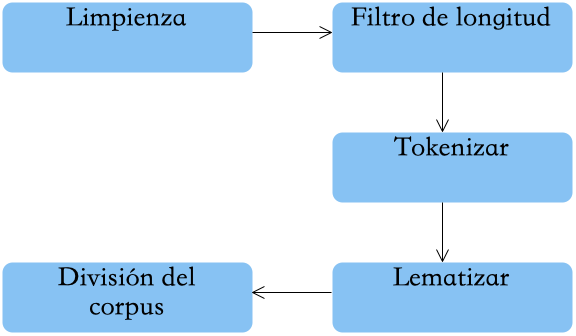
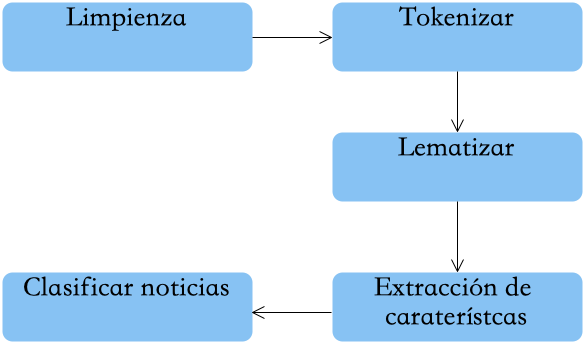
Se ha modificado la estructura de la sección Aplicación web, del capítulo 5

diff --git a/Analisis/DocumentoAnalisis/Capitulos/Capitulo5-ImplementacionPruebas/3.Proceso-ApplicacionWeb.tex b/Analisis/DocumentoAnalisis/Capitulos/Capitulo5-ImplementacionPruebas/3.Proceso-ApplicacionWeb.tex
@@ -1,16 +1,18 @@
-\section{Aplicación web}
-
+\section[Aplicación]{Aplicación web}
 
 
 Como se establecio en el obejetivo de este trabajo (ver \Tref{cp1:objetivoG}{Objetivo general}), se ha desarrollado una aplicación para recolectar y clasificar noticias, las cuales son mostrados en un entorno web. En esta sección se explica el proceso de funcionamiento de la aplicación web.\\
 
 
 
-La aplicación desarrollada consta de 4 etapas, las culaes son mostradas en la Figura \ref{fig:procesoAppWeb}, donde la etapa \textbf{selección} describe las secciones disponibles para obtener noticias, la etapaam
+La aplicación esta dieseñada en 4 etapas, las cuales son mostradas en la Figura \ref{fig:procesoAppWeb}, donde la etapa \textbf{Selección} describe las secciones disponibles para obtener noticias; la etapa \textbf{Recolectar} muestra la integración de los \textit{crawlwers} en la herramienta; la etapa \textbf{Clasificar} hace uzo del modelo clasificador desarrollado en la sección anterior y para concluir, la etapa \textbf{Mostrar resultados} describe la forma en que los datos son presentados al usuario. A continuación se explica a detalla cada una las tareas.
+
+
+
 
 \begin{figure}[H]
 	\centering
-	\includegraphics[scale=0.5]{imagenes/Capitulo5/AplicacionWeb/ProcesoAplicacionWeb.png}
+	\includegraphics[scale=0.55]{imagenes/Capitulo5/AplicacionWeb/ProcesoAplicacionWeb.png}
 	\caption{Etapas de la aplicación web}
 	\label{fig:procesoAppWeb}
 \end{figure}
@@ -27,43 +29,12 @@ La aplicación desarrollada consta de 4 etapas, las culaes son mostradas en la F
 %\end{figure}
 %
 
-\subsubsection{Selección de sección}
-El usuario tendrá que elegir una sección (\textbf{Cultura}, \textbf{Deportes}, \textbf{Economía}, \textbf{Ciencia y Tecnología} y \textbf{Política}). 
-\\
-
-\subsubsection{Recolección de noticias}
-Una vez seleccionada la sección, se procede con la recolección de noticias de los sitios web previamente definidos (ver \Tref{cp5:sitiosWeb}{sitios web}), la información que se descargará de cada noticia será la siguiente:
-
-\begin{itemize}
-	\item \textbf{URL de la noticia}
-	\item \textbf{Título}
-	\item \textbf{Fecha}
-	\item \textbf{Autor}
-	\item \textbf{Descripción} (Existen sitios web, donde las noticias cuentan con una descripción)
-	\item \textbf{Noticia}
-\end{itemize}
-
-No será necesario extraer el nombre de la sección a la cual pertenece la noticia.\\
-
-\subsubsection{Tokenización / lematización}
-Una vez que se recolecta el contenido de las noticias, se pasa por la etapa de tokenización (ver \Tref{cp5:tokenizacion}{tokenización}), la cual consiste en separar el texto en sus elementos mínimos, posteriormente se lematiza (ver \Tref{cp5:lematizacion}{lematización}) el texto, proceso que reduce cada una de las palabras tokenizadas en lemas.
+\subsection{Selección}
 
 
-\subsubsection{Extracción de características}
-Finalizado el proceso de tokenización y lematización, se procede con la etapa de extracción de características, donde se crea un espacio vectorial por cada noticia, en donde cada elemento del vector representa la existencia o asencia de una característica (palabra).
+Esta etapa permite elegir al usuario el tipo de noticias a buscar. La aplicación comienza en una pantalla inicial, donde se muestra un menú con las opciones \textbf{Inicio}, \textbf{Cultura}, \textbf{Deportes}, \textbf{Economía}, \textbf{Política}, \textbf{Ciencia y Tecnología}, estas categorías (excluyendo \textbf{Inicio}) son las secciones permitidas para recolectar noticias, como se muestra la el Figura \ref{fig:PantallaInicio}. Cabe mencionar que la opción \textbf{Inicio}, permite regresar a la pantalla principal.\\
 
-\subsubsection{Clasificación de noticias}
-Una vez que se han obtenido las características de cada una de las noticias, se realizá la clasificación de las noticias, estas noticias se guardarán en un archivo, cabe destacar que cada sección contendrá su propio archivo, con el fin de mejorar el tiempo de visualización de los resultados.
 
-\subsubsection{Visualización de resultados}
-El usuario podrá visualizar las noticias extraídas y clasificadas de la sección que seleccione.
-Una vez que se haya realizado la recolección de noticias
-
-\subsection{Vistas de la aplicación web}
-
-El sistema cuenta con 5 secciones \textbf{Deportes}, \textbf{Economía}, \textbf{Política}, \textbf{Ciencia y tecnología} y \textbf{Cultura}, el usuario podrá elegir de alguna de estas secciones, se debe considerar que los sitios web de los cuales serán recolectadas las noticias, han sido definidos en el capítulo 5.1.\\
-La Figura \ref{fig:PantallaInicio} muestra la vista que tendrá el usuario al ingresar a la aplicación web
-\\
 \begin{figure}[H]
 \centering
 \includegraphics[scale=0.29]{imagenes/Capitulo5/pantallaPrincipal.png}
@@ -71,8 +42,16 @@ La Figura \ref{fig:PantallaInicio} muestra la vista que tendrá el usuario al in
 \label{fig:PantallaInicio}
 \end{figure}
 
-El usuario tiene la posibilidad de elegir la sección de la cual desee visualizar noticias. Una vez que el usuario seleccione una sección, la vista que tendrá se muestra en la Figura \ref{fig:loading}.
-\\
+Después de elegir una sección, se muestra el mensaje \textbf{En proceso de recolección y clasificación}, como se visualiza en la Figura \ref{fig:loading}, el cual informa que las etapas \textbf{Recolectar} y \textbf{Clasificar} están en proceso, además cuando se muestra este mensaje no se puede seleccionar otra secciones hasta que el proceso concluya. Cabe destacar que el proceso continua de forma normal si se cumplen las siguientes condiciones:
+
+\begin{enumerate}
+	\item \textbf{Primera vez}: Esta condición hace referencia a la etapa \textbf{selección}, es decir cuando es la primera vez que se ha selecciona una sección, se debe proceder con las siguientes etapas
+
+	\item \textbf{Límite de periodo}: Esta condición define 4 horas como el periodo de recolección, es decir cuando se ha solicitado mostrar las noticias de una sección y ha transcurrido 4 horas des de la última petición, se debe proceder con las siguientes etapas
+\end{enumerate}	
+
+Como consecuencia de no cumplirse estas condiciones, las etapas \textbf{Recolectar y Clasificar} no son iniciadas, debido a que los artículos con su clasificación correspondiente se encuentran almacenados en el sistema, por esta razón se procede directamente con la etapa \textbf{Mostrar resultado}.\\
+
 \begin{figure}[H]
 \centering
 \includegraphics[scale=0.29]{imagenes/Capitulo5/mensajeEspera.png}
@@ -80,33 +59,73 @@ El usuario tiene la posibilidad de elegir la sección de la cual desee visualiza
 \label{fig:loading}
 \end{figure}
 
-Mientras se muestra esta vista, de manera interna se realizan los siguientes procesos:
+
+\subsection{Recolectar}
+
+
+Esta etapa genera un subproceso el cual activa un script (desarrollado en \textbf{Python 3}) el cual activa la recolección de noticias en los sitio web definidos previamente (ver \Tref{cp5:sitiosWeb}{Sitios web}), la información que se obtiene de cada artículo es la siguiente:
 
 \begin{itemize}
-	\item Se realiza la recolección de noticias.  
-	\item Una vez finalizada la recolección de noticias, se unen en un archivo
-	\item Se tokenizan y lematizan las noticias recolectadas
-	\item Finalmente el algoritmo clasifica las noticias recolectadas
+	\item \textbf{URL de la noticia}
+	\item \textbf{Título}
+	\item \textbf{Fecha}
+	\item \textbf{Autor}
+	\item \textbf{Descripción} (Existen sitios web, donde las noticias no cuentan con una descripción)
+	\item \textbf{Noticia}
 \end{itemize}
 
-Una vez que se han clasificado las noticias el usuario tendrá la opción de elegir si desea visualizar las noticias o cancelar, la Figura \ref{fig:notClass}, muestra el mensaje que el usuario visualizará una vez finalizada la clasificación.
-\\
+La extracción de las noticias se hace en la página principal de los sitios web. Cabe destacar que en el proceso de recolección se valida que las noticias contengan al menos 180 palabras, de lo contrario no se extrae. Ademas se ha definido un tiempo máximo de espera en esta etapa, el cual es de 84 segundos, después de concluir el periodo y haber recolectado la información, se procede con la etapa de \textbf{Clasificación}, de lo contrario si no se recolecto ninguna noticia se muestra el mensaje \textbf{Se ha agotado el tiempo de espera, no se han encontrado noticias, intentar mas tarde} (como se visualiza en la Figura \ref{fig:notNoRec}) y se detiene el proceso.
+
+\begin{figure}[H]
+\centering
+\includegraphics[scale=0.29]{imagenes/Capitulo5/errorConectividad.png}
+\caption{Mensaje de error en la recolección}
+\label{fig:notNoRec}
+\end{figure}
+
+\subsection{Clasificar}
+
+Después de recolectar las noticias se inicia la etapa de clasificación, el cual esta conformado por 5 tareas (como se muestra en la Figura \ref{clasificacion}). Esta etapa genera un subproceso para ejecutar un script desarrollado en \textbf{Python 3}, el cual esta encargado de llevar acabo cada tarea. Cabe destacar que el proceso de clasificación solo utiliza el contenido de la noticia, los demás datos no son necesarios en esta etapa. A continuación se explica cada subtareas.
+
+\begin{figure}[H]
+\centering
+\includegraphics[scale=0.55]{imagenes/Capitulo5/AplicacionWeb/PreprocesamientoWeb.png}
+\caption{Proceso de clasificación}
+\label{fig:cp5:clasificacion}
+\end{figure}
+
+\begin{enumerate}
+
+	\item \textbf{Limpieza}: En esta etapa se eliminan todos los saltos de línea
+	\item \textbf{Tokenizar}: Consiste en separar el texto en sus elementos mínimos por un espacio (ver \Tref{cp5:tokenizacion}{Tokenizar})
+	\item \textbf{Lematrizer}: Proceso que reduce cada una de las palabras tokenizadas en lemas(ver \Tref{cp5:lematizacion}{Lematizar})
+	\item \textbf{Extracción de características}: Se extrae palabras (características) con base al vocabulario definido al final de la etapa de entrenamiento (ver \ref{}), para crear un espacio vectorial por cada noticia (esta es la representación que el algoritmo entiende). Cabe destacar que las características son extraídas de forma binaria (ver \Tref{cp5:extraccion}{Extracción de características})
+	\item \textbf{Clasificar}: Al final de la sección \textbf{Entrenamiento} se persistió el modelo clasificador (ver \Tref{cp5:persistencia}{Persistencia}) el cual esta basado en el algoritmo \textbf{Maquinas de soporte vectorial} (ver \Tref{cp3:msv}{MSV}). Esta tarea utiliza el clasificador el cual recibe como entrada los vectores de características(los cuales representan el contenido de cada artículo) y como salida brinda la clasificación del conjunto de noticias, y son almacenadas por sección en un archivo \textbf{CSV}
+
+\end{enumerate}
+
+
+\subsection{Mostrar resultados}
+
+
+Cuando el proceso de clasificación ha concluido se muestra el mensaje \textbf{Noticias listas para ser mostradas}, donde el usuario tiene la opción de elegir si desea visualizar las noticias o cancelar, como se visualiza en la Figura \ref{fig:notClass}.
+
 \begin{figure}[H]
 \centering
 \includegraphics[scale=0.29]{imagenes/Capitulo5/noticiasListasParaSerMostradas.png}
-\caption{Mensaje que se muestra una vez clasificadas las noticias.}
+\caption{Mensaje que se muestra una vez clasificadas las noticias}
 \label{fig:notClass}
 \end{figure}
 
-Las noticias se mostrarán por fecha de publicación, mostrándose las del día actual, en la pantalla principal, la información que se mostrará será el título de la noticia, el resúmen de la noticia si es que tiene, el autor de la noticia y finalmente la fecha de publicación de la noticia.\\
-Si el usuario selecciona continuar, la vista que tendrá el usuario se muestra en la Figura \ref{fig:vistaNoticias}.
-\\
+Si el usuario ha presionado la opción \textbf{continuar}, los artículos clasificados de la sección elegida son obtenidos. En la pantalla principal, las noticias se muestran por fecha de publicación, la información que se muestra es: \textbf{título de la noticia}, \textbf{resumen de la noticia}(de contar con ello), \textbf{autor} y finalmente la \textbf{fecha de publicación}. Como se muestra en la Figura \ref{fig:vistaNoticias}.
+
 \begin{figure}[H]
 \centering
 \includegraphics[scale=0.29]{imagenes/Capitulo5/noticiasDeHoy.png}
 \caption{Vista de las noticias recolectadas.}
 \label{fig:vistaNoticias}
 \end{figure}
+
 
 Si el usuario desea visualizar noticias del dia de ayer, la vista que tendrá se muestra en la Figura \ref{fig:vistaNoticiasAyer}.
 \\
@@ -117,12 +136,4 @@ Si el usuario desea visualizar noticias del dia de ayer, la vista que tendrá se
 \label{fig:vistaNoticiasAyer}
 \end{figure}
 
-Existe la posibilidad de que no se recolecten noticias, si después de 84 segundos, no se realizó la recolección de noticias debido a una falla con nuestra conectividad de Internet, la pantalla que el usuarió tendrá se muestra en la Figura \ref{fig:notNoRec}.
-\\
-\begin{figure}[H]
-\centering
-\includegraphics[scale=0.29]{imagenes/Capitulo5/errorConectividad.png}
-\caption{Mensaje que se muestra si no se recolectaron noticias.}
-\label{fig:notNoRec}
-\end{figure}
-
+Existe la posibilidad de que no se recolecten noticias, si después de 84 segundos, no se realizó la recolección de noticias debido a una falla con nuestra conectividad de Internet, la pantalla que el usuarió tendrá se muestra en la Figura 

diff --git a/Analisis/DocumentoAnalisis/Capitulos/Capitulo5-ImplementacionPruebas/2.Proceso-Entrenamiento.tex b/Analisis/DocumentoAnalisis/Capitulos/Capitulo5-ImplementacionPruebas/2.Proceso-Entrenamiento.tex
@@ -248,6 +248,7 @@ Como primer paso del entrenamiento, el corpus debe ser representado mediante con
 
 %----------------------------------%
 %\begin{large}
+\Tlabel{cp5:extraccion}
 \subsubsection{Extracción de características}
 %\end{large}
 
@@ -881,6 +882,7 @@ El \textbf{exactitud} obtenido (incluyen todas las secciones) se muestra en la t
 \end{table}
 
 %------------------------------------------------------------------%
+\Tlabel{cp5:persistencia}
 \subsection{Persistencia}
 
 
